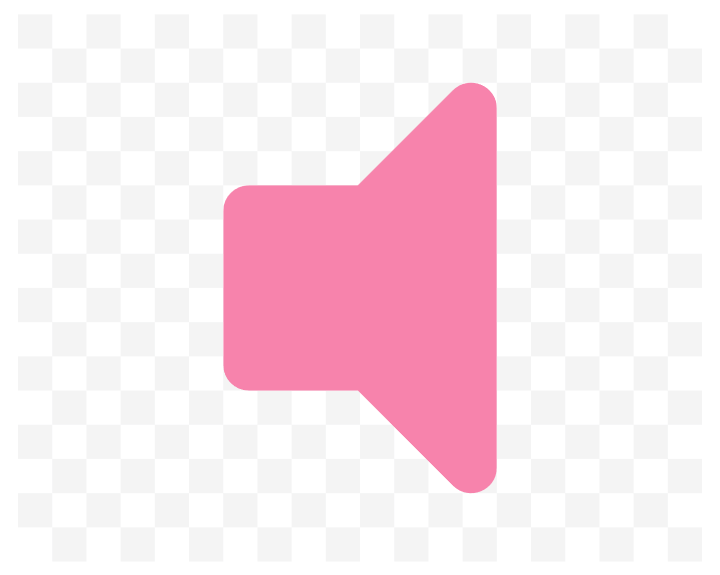
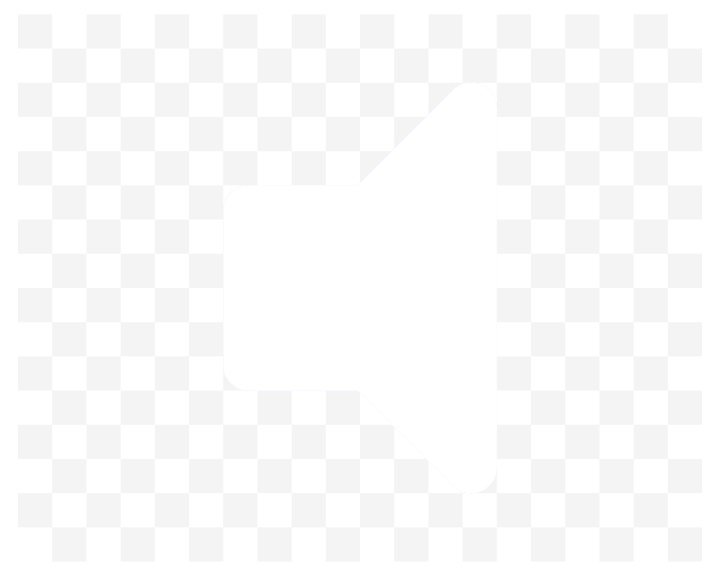
Icono de volumen

Changed region(s): [[0.3056, 0.1478, 0.7028, 0.8574]]

diff --git a/megavr/src/app/space/space.component.html b/megavr/src/app/space/space.component.html
@@ -33,16 +33,16 @@
       
       <img id="carreta" src="../../assets/Space/btn_caro_Carreta.png">
       <img id="marca" src="../../assets/Space/btn_marca.png">
-      <img id="img_caro" src="../../assets/Space/mute3.png">
+      <img id="volumeoff" src="../../assets/Space/volumeup.png">
       <video id="videoId" src="../../assets/Noticias/cabina_caro.webm#" muted loop autoplay #videoid></video>
-      <video id="v2" src="../../assets/Noticias/cabina_caro.webm" muted loop autoplay #videoid></video>
+      <video id="cabina-caro" src="../../assets/Noticias/cabina_caro.webm" muted loop autoplay #videoid></video>
 
     </a-assets>
 
-    <a-plane id="caroc" position="1 1.13 0.2" src="#img_caro"  transparent="true" scale="0.1 0.1 0.4" rotation="0 -103.63202232090227 0" (click)=caroclick() ></a-plane>
+    <a-plane id="parlante" position="1 1.13 0.2" src="#volumeoff" transparent="true" scale="0.1 0.1 0.4" rotation="0 -103.63202232090227 0" (click)=caroclick() #parlante></a-plane>
     
     <a-entity id="carovideo2" geometry="height: 1.8; width: 1.5; primitive: plane" rotation="0 -90.35830908110648 0"
-    material="shader: transparent-video; src: #v2; alphaTest: 0.5; side: front"
+    material="shader: transparent-video; src: #cabina-caro; alphaTest: 0.5; side: front"
         position="4.88336 0.98349 -0.29431"
         scale="2.15239 2.15239 2.15239"  
         (click)="locutor('video_caro')"

diff --git a/megavr/src/app/space/space.component.ts b/megavr/src/app/space/space.component.ts
@@ -19,7 +19,6 @@ export class SpaceComponent implements OnInit {
   //public mostrar: boolean = false;
   public playsonido: boolean = false;
   public primercaro: boolean = true; // temporary
-  public imagen : boolean = false;
   public sonidoclick : boolean = false;
   public menu : string = 'space'; 
   
@@ -40,7 +39,7 @@ export class SpaceComponent implements OnInit {
     
 
 
-    let caro2 = <HTMLVideoElement>document.getElementById("v2");
+    let caro2 = <HTMLVideoElement>document.getElementById("cabina-caro");
     caro2.volume = 0;
     caro2.play();
     
@@ -75,12 +74,13 @@ export class SpaceComponent implements OnInit {
   caroclick(){
     if (this.sonidoclick==false){
       this.sonidoclick=true;
-      this.imagen=true;
-      let carosonido2 = document.getElementById("v2") as HTMLVideoElement;
+      let carosonido2 = document.getElementById("cabina-caro") as HTMLVideoElement;
       carosonido2.volume=1;
+     document.getElementById('#parlante')?.setAttribute('src','../../assets/Space/volumeup.png')
+      //parlante?.setAttribute('src','../../assets/Space/volumeup.png');
 
     }else{
-      let carosonido2 = document.getElementById("v2") as HTMLVideoElement;
+      let carosonido2 = document.getElementById("cabina-caro") as HTMLVideoElement;
       carosonido2.volume=0;
       this.sonidoclick=false;
     }
